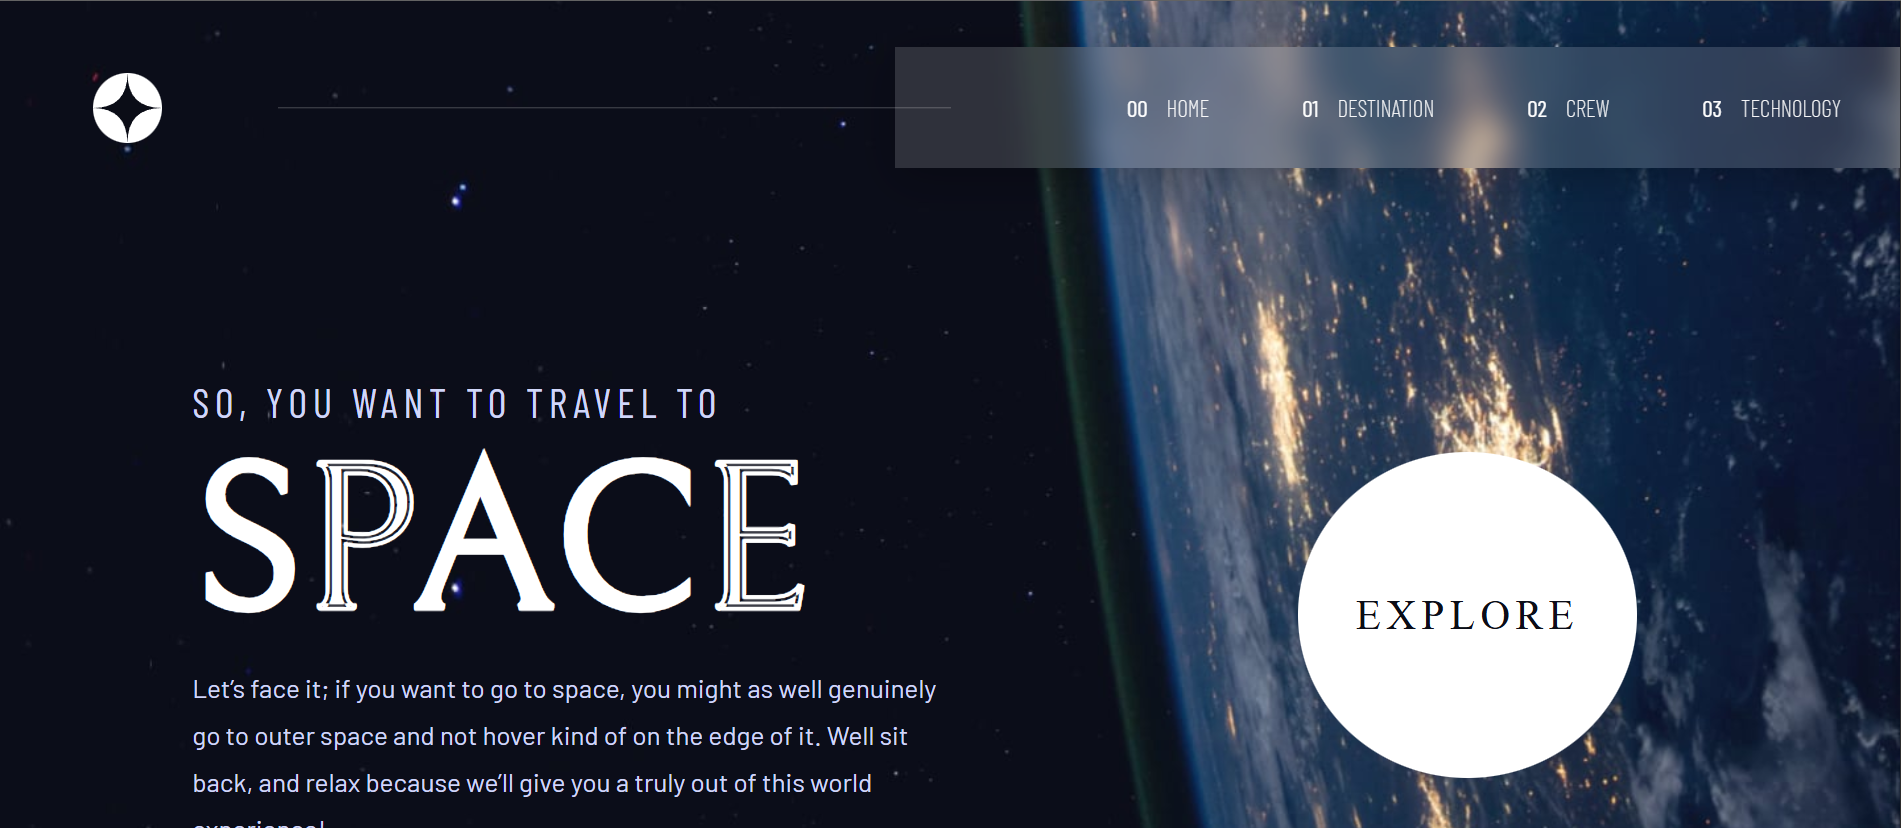
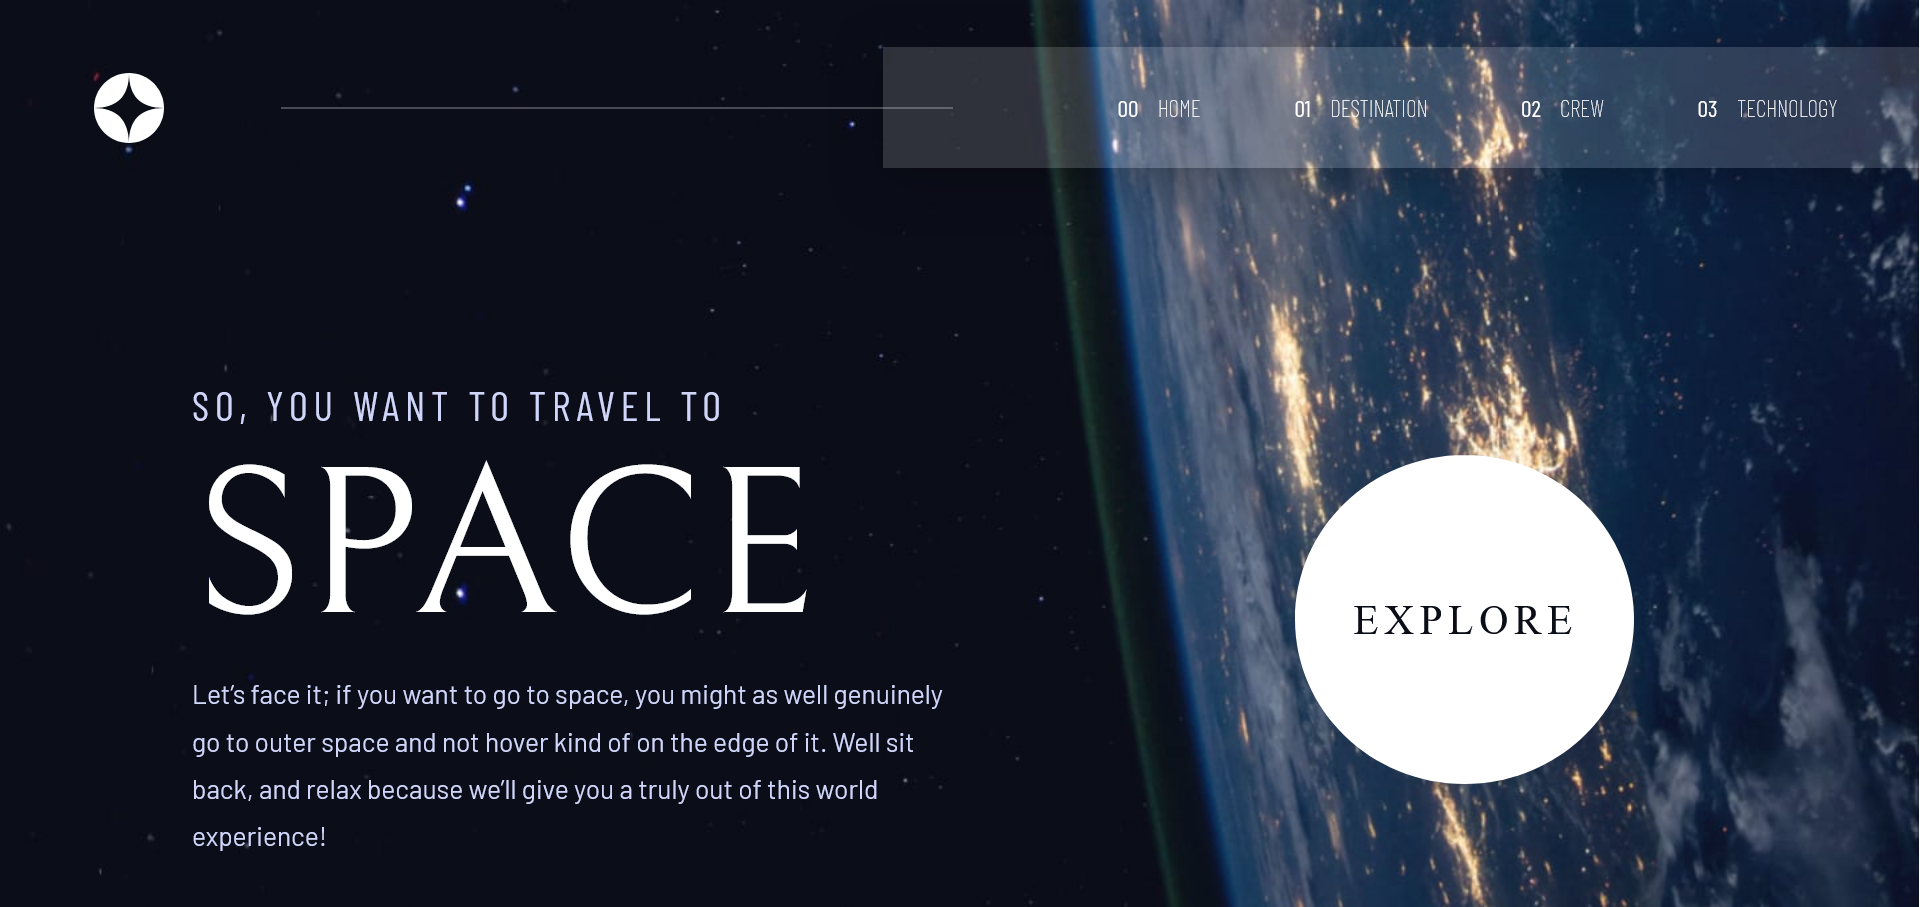
update some content

diff --git a/index.html b/index.html
@@ -191,6 +191,15 @@
             <div class="skill-card__bar"><div class="skill-card__fill" data-width="80"></div></div>
           </div>
 
+          <div class="skill-card reveal" data-delay="500">
+            <div class="skill-card__icon">
+              <img src="assets/icons8-wordpress.svg" alt="Wordpress" />
+            </div>
+            <h3 class="skill-card__title">Wordpress</h3>
+            <p class="skill-card__desc" data-i18n="skills.wordpress">Création de sites avec thèmes, gestion de contenu, plugins, personnalisation et optimisation de base.</p>
+            <div class="skill-card__bar"><div class="skill-card__fill" data-width="80"></div></div>
+          </div>
+
           <!-- Tools & méthodes -->
           <div class="skill-card skill-card--more reveal" data-delay="600">
             <div class="skill-card__more-list">
@@ -221,7 +230,7 @@
               <h3 class="project-card__title" data-i18n="projects.p1.title">Landing Page SaaS</h3>
               <p class="project-card__desc" data-i18n="projects.p1.desc">Page d'accueil moderne pour une app fictive. Ideal pour une presentation simple et moderne d'un produit ou d'une service.</p>
               <div class="project-card__links">
-                <a href="https://masyc26.github.io/Clipboard-Landing/" class="project-card__link" data-i18n="projects.demo" target="_blank">Démo →</a>
+                <a href="https://clipboard-wine-phi.vercel.app/" class="project-card__link" data-i18n="projects.demo" target="_blank">Démo →</a>
                 <a href="https://github.com/MasyC26/Clipboard-Landing" class="project-card__link project-card__link--ghost" target="_blank">GitHub</a>
               </div>
             </div>
@@ -237,7 +246,7 @@
               <h3 class="project-card__title" data-i18n="projects.p2.title">Landing page pour une application</h3>
               <p class="project-card__desc" data-i18n="projects.p2.desc">Presentation d'un logiciel de gestion de fichier et de sauvegarde en ligne sur le cloud. Avec un style de fond sombre</p>
               <div class="project-card__links">
-                <a href="https://masyc26.github.io/Fylo-project/" class="project-card__link" data-i18n="projects.demo" target="_blank">Démo →</a>
+                <a href="https://fylo-three-omega.vercel.app/" class="project-card__link" data-i18n="projects.demo" target="_blank">Démo →</a>
                 <a href="https://github.com/MasyC26/Fylo-project" class="project-card__link project-card__link--ghost" target="_blank">GitHub</a>
               </div>
             </div>
@@ -252,6 +261,22 @@
               <div class="project-card__tags"><span>HTML</span><span>SCSS</span><span>JS</span></div>
               <h3 class="project-card__title" data-i18n="projects.p3.title">Space tourism multi-page website</h3>
               <p class="project-card__desc" data-i18n="projects.p3.desc">Un site web multi-page fictive qui presente un projet de voyage spatial. Les elements sont interactives et responsives.</p>
+              <div class="project-card__links">
+                <a href="https://space-tourism-five-opal.vercel.app/" class="project-card__link" data-i18n="projects.demo" target="_blank">Démo →</a>
+                <a href="https://github.com/MasyC26/Space-tourism-multi-page-website" class="project-card__link project-card__link--ghost" target="_blank">GitHub</a>
+              </div>
+            </div>
+          </article>
+
+          <article class="project-card reveal" data-delay="300">
+            <div class="project-card__visual">
+              <img src="assets/DigitalBank.png" alt="Space tourism multi-page website" class="project-card__screenshot" onerror="this.style.display='none'; this.nextElementSibling.style.display='flex'">
+
+            </div>
+            <div class="project-card__body">
+              <div class="project-card__tags"><span>HTML</span><span>SCSS</span><span>JS</span></div>
+              <h3 class="project-card__title" data-i18n="projects.p4.title">DigitalBank – Banque digitale moderne</h3>
+              <p class="project-card__desc" data-i18n="projects.p4.desc">Landing page d’une banque digitale moderne présentant ses services, fonctionnalités et articles financiers. Interface responsive avec navigation, sections marketing et contenu informatif.</p>
               <div class="project-card__links">
                 <a href="https://masyc26.github.io/Space-tourism-multi-page-website/" class="project-card__link" data-i18n="projects.demo" target="_blank">Démo →</a>
                 <a href="https://github.com/MasyC26/Space-tourism-multi-page-website" class="project-card__link project-card__link--ghost" target="_blank">GitHub</a>

diff --git a/main.js b/main.js
@@ -39,6 +39,7 @@ const translations = {
     "skills.scss":       "Variables, mixins, nesting, architecture BEM.",
     "skills.react":      "Components, Hooks, state management, props.",
     "skills.git":        "Versioning, branches, GitHub, collaboration.",
+    "skills.wordpress":  "Création de sites avec thèmes, gestion de contenu, plugins, personnalisation et optimisation de base.",
     "skills.more":       "+ Outils & méthodes",
 
     "projects.tag":      "— Réalisations",
@@ -50,6 +51,8 @@ const translations = {
     "projects.p2.desc":  "Presentation d'un logiciel de gestion de fichier et de sauvegarde en ligne sur le cloud. Avec un style de fond sombre.",
     "projects.p3.title": "Space tourism multi-page website",
     "projects.p3.desc":  "Un site web multi-page qui presente un projet fictive de voyage spatial. Les elements sont interactives et responsives.",
+    "projects.p4.title": "DigitalBank – Banque digitale moderne",
+    "projects.p4.desc":  "Landing page d’une banque digitale moderne présentant ses services, fonctionnalités et articles financiers. Interface responsive avec navigation, sections marketing et contenu informatif.",
 
     "services.tag":      "— Ce que je propose",
     "services.title":    "Services <em>Freelance</em>",
@@ -111,6 +114,7 @@ const translations = {
     "skills.scss":       "Variables, mixins, nesting, BEM architecture.",
     "skills.react":      "Components, Hooks, state management, props.",
     "skills.git":        "Versioning, branches, GitHub, collaboration.",
+    "skills.wordpress":  "Website creation using themes, content management, plugins, customization, and basic optimization.",
     "skills.more":       "+ Tools & methods",
 
     "projects.tag":      "— Work",
@@ -122,6 +126,8 @@ const translations = {
     "projects.p2.desc":  "Presentation of cloud-based file management and online backup software. Featuring a dark background.",
     "projects.p3.title": "Space tourism multi-page website",
     "projects.p3.desc":  "A multi-page website showcasing a fictional space travel project. The elements are interactive and responsive.",
+    "projects.p4.title": "DigitalBank – A Modern Digital Bank",
+    "projects.p4.desc":  "Landing page for a modern digital bank showcasing its services, features, and financial articles. Responsive interface with navigation, marketing sections, and informative content.",
 
     "services.tag":      "— What I offer",
     "services.title":    "<em>Freelance</em> Services",